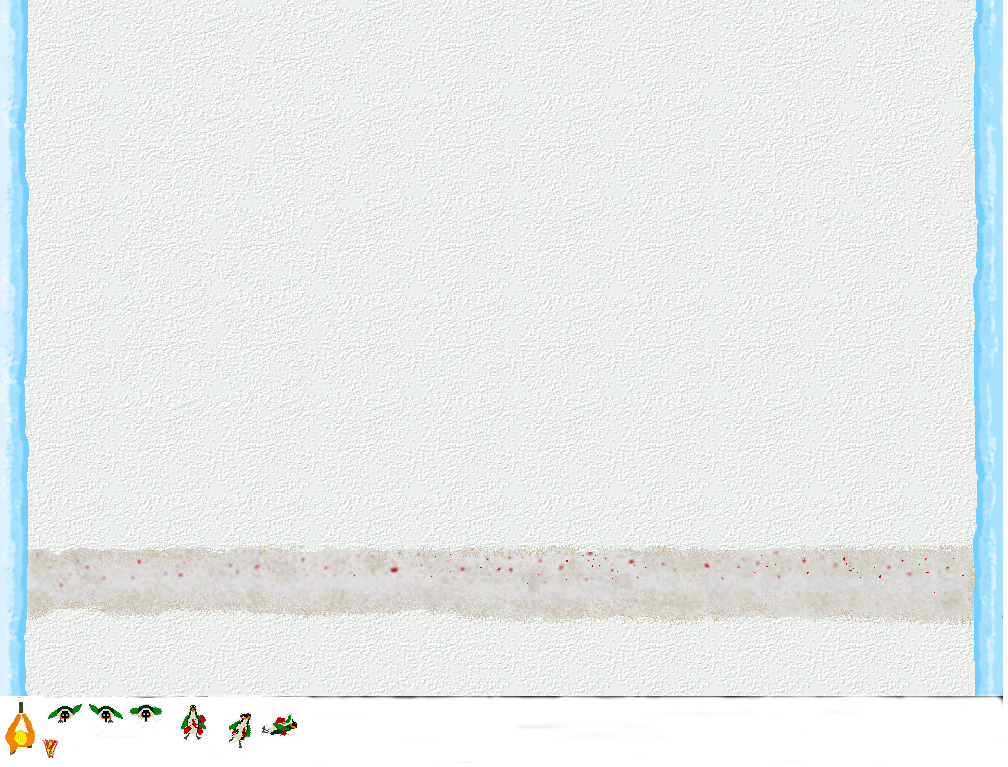
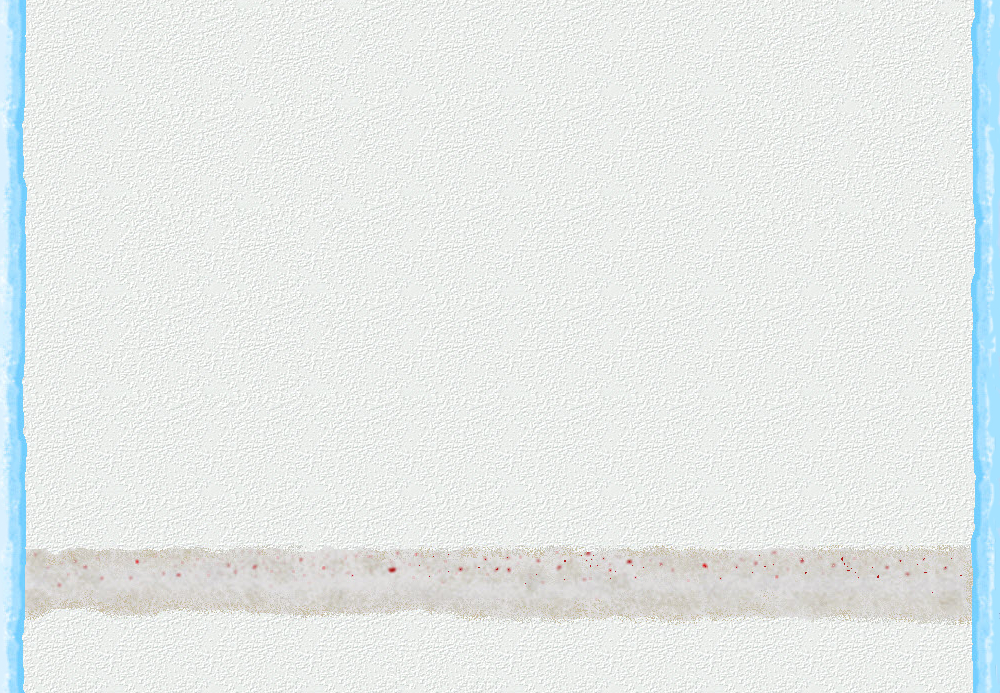
Increased Performance!
for now the image is separated.

Changed region(s): [[0.0, 0.0, 1.0, 1.0], [0.496, 0.2121, 0.527, 0.2727], [0.31, 0.2727, 0.341, 0.303]]

diff --git a/index.html b/index.html
@@ -11,12 +11,12 @@
     <script src="js/countdown.js" type="text/javascript"></script>
 </head>
 <body id="body">
-    <video2autoplay loop poster="#">
+    <!--video autoplay loop poster="#">
         <source src="content/GamePlay.mp4" type="video/mp4">
         <source src="content/Gameplay.ogg" type="video/ogg">
         Your browser does not support this video format.
-    </video2>
-    <img src="images/landscape.png"  id="Img1" alt="Please Wait..." />
+    </video-->
+    <img src="images/landscape.png"  id="landscape" alt="Please Wait..." />
     <div id="GameData">
         <img src="images/landscape.png" width="1200" id="background" alt="Please Wait..." />
         <audio id="Bleed">
@@ -203,7 +203,6 @@
   <script src="js/achievementTable.js"></script>
   <script src="js/achievementWidget.js"></script>
   <script src="js/admin.js"></script>
-  <script src="js/challenge.js"></script>
   <script src="js/constants.js"></script>
   <script src="js/friendsTable.js"></script>
   <script src="js/game.js"></script>
